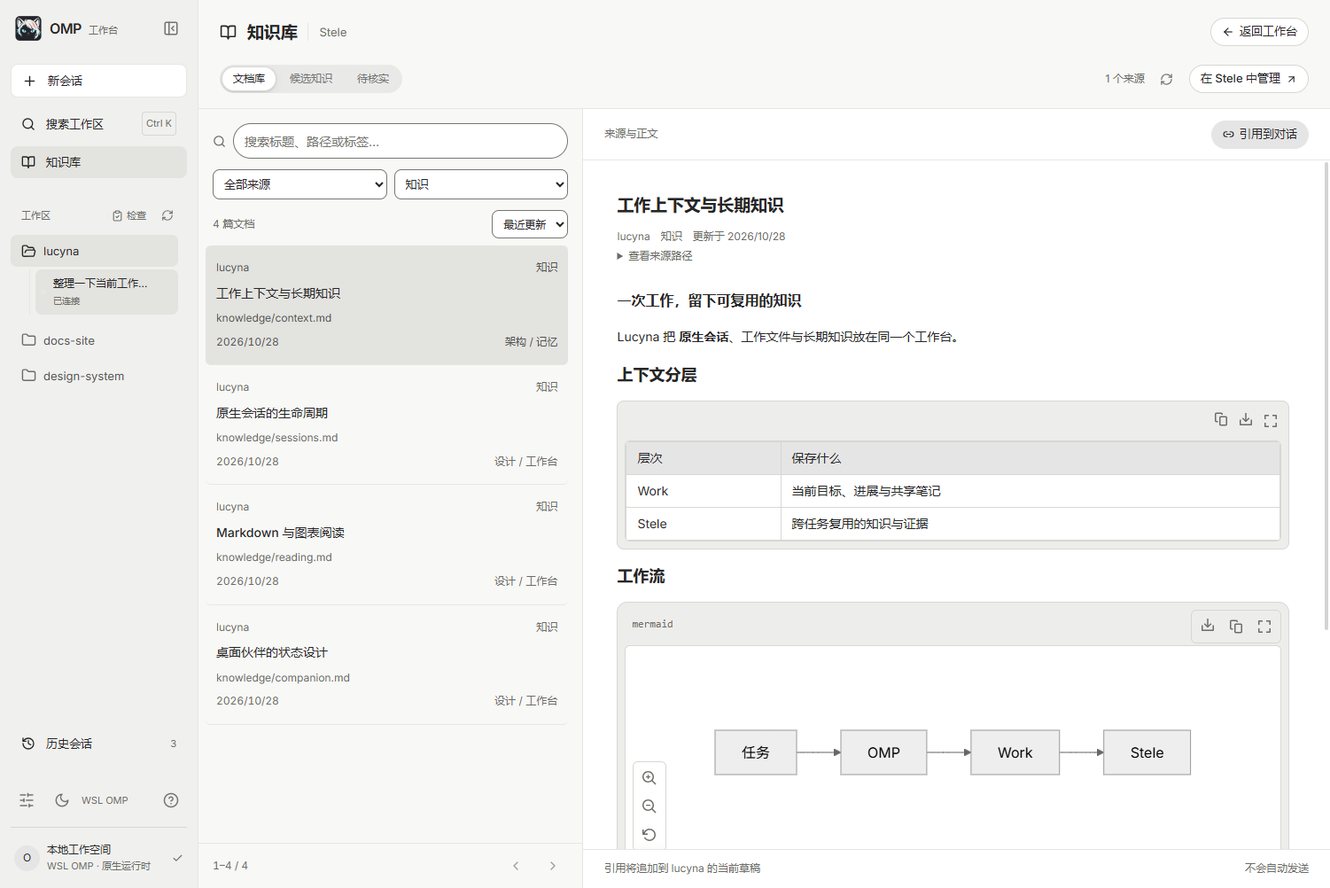
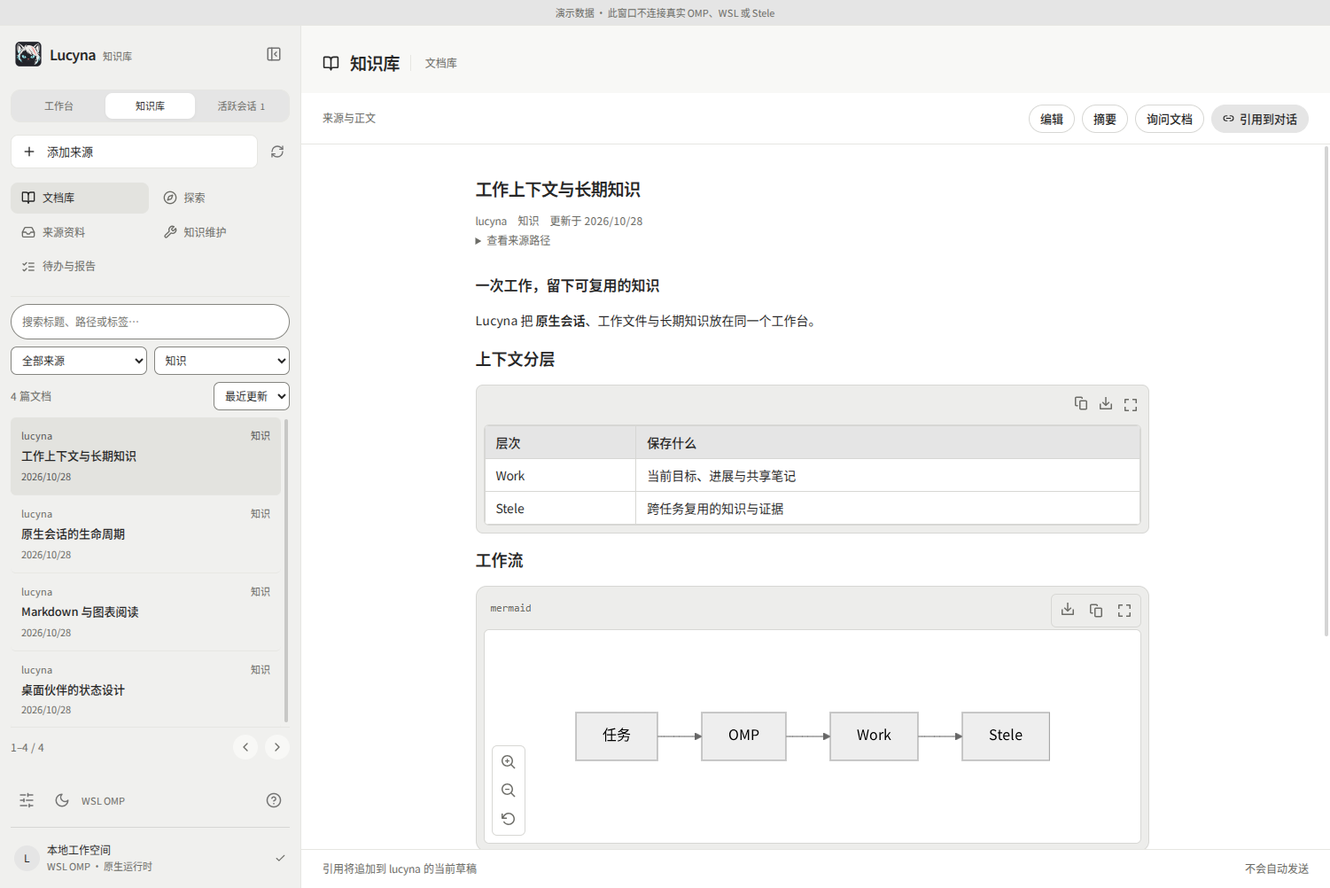
docs: refresh Lucyna features, setup and desktop gallery
Document session lifecycle, work details, knowledge navigation, configurable
feedback and native text attachment behavior. Update launch and recovery
instructions and regenerate public screenshots with synthetic data.

diff --git a/design/app-logo-v1/preview.html b/design/app-logo-v1/preview.html
@@ -1,3 +1,3 @@
-<!doctype html><html lang="zh-CN"><head><meta charset="utf-8"><meta name="viewport" content="width=device-width,initial-scale=1"><title>Cindy OMP · Logo</title><style>
+<!doctype html><html lang="zh-CN"><head><meta charset="utf-8"><meta name="viewport" content="width=device-width,initial-scale=1"><title>Lucyna · Logo</title><style>
 *{box-sizing:border-box}body{margin:0;background:#f7f7f4;color:#282c31;font:14px/1.6 "Segoe UI","Microsoft YaHei",sans-serif;padding:40px}header{display:flex;align-items:center;gap:30px;margin:0 auto 32px;max-width:1050px}header img{width:152px;height:152px;flex-shrink:0}small{font-size:10px;letter-spacing:.16em;color:#7b8388}h1{font-size:38px;letter-spacing:-1px;margin:6px 0;font-weight:600}h1 span{font-weight:350;color:#6b7479}header p{color:#6b7479;margin:0;max-width:500px}.samples{display:grid;grid-template-columns:1fr 1fr;gap:18px;max-width:1050px;margin:auto}.panel{border-radius:18px;padding:23px 24px;background:white;border:1px solid #e3e5e0;min-height:215px}.dark{background:#1c2226;color:#e9ece9;border-color:#1c2226}h2{font-size:13px;letter-spacing:.02em;font-weight:500;margin:0 0 26px}.sizes{display:flex;gap:17px;align-items:flex-end}.size{text-align:center;font:10px "Segoe UI",sans-serif;color:#878d90}.size img{display:block;margin:0 auto 12px;object-fit:contain}.caption{font-size:12px;color:#7e8689;margin:20px 0 0}.palette{display:flex;gap:25px;max-width:1050px;margin:24px auto;align-items:center;color:#697277;font-size:11px}.swatch{display:inline-block;width:12px;height:12px;border:1px solid #bbb6;border-radius:50%;margin-right:8px;vertical-align:-2px}footer{max-width:1050px;margin:24px auto 0;border-top:1px solid #e1e4df;padding-top:18px;color:#70787c;font-size:12px}.mini{display:flex;align-items:center;gap:10px;font-size:16px;font-weight:550}.mini img{width:32px;height:32px}@media(max-width:740px){body{padding:20px}.samples{grid-template-columns:1fr}.sizes{gap:12px}header img{width:100px;height:100px}h1{font-size:27px}}
-</style></head><body><header><img src="logo-master.png" alt="银发青眼黑猫 Logo"><div><small>APPLICATION IDENTITY · 01</small><h1>Cindy <span>OMP</span></h1><p>银发是搭档的记号，青色猫眼是专注的目光。<br>一个可在桌面上辨认的共同形象。</p></div></header><main class="samples"><section class="panel"><h2>LIGHT · 小尺寸实际效果</h2><div class="sizes" id="light"></div><p class="caption">16–24 px 使用简化版本，32 px 起保留完整表情。</p></section><section class="panel dark"><h2>DARK · 深色界面</h2><div class="sizes" id="dark"></div><p class="caption">圆角石墨底保持轮廓，银白与青色提供识别。</p></section><section class="panel" style="min-height:100px"><div class="mini"><img src="icon-32.png" alt="">Cindy OMP</div><p class="caption">侧栏 / 标题栏 / 网页页签 / 应用图标</p></section><section class="panel dark" style="min-height:100px"><div class="mini"><img src="icon-20.png" style="width:20px;height:20px" alt="">桌面伙伴</div><p class="caption">托盘与紧凑视图 · 图标简化，角色保持一致</p></section></main><div class="palette"><span><i class="swatch" style="background:#282c31"></i>GRAPHITE</span><span><i class="swatch" style="background:#f1f0ed"></i>SILVER</span><span><i class="swatch" style="background:#85eaf5"></i>CYAN</span><span><i class="swatch" style="background:#ff8585"></i>CORAL</span></div><footer>保留原女孩与黑猫插画，用于对话头像和欢迎页。主 Logo 用于程序身份。透明 PNG 原图 · 9 档 Windows ICO · 独立小尺寸版本</footer><script>for(const id of ['light','dark'])for(const size of [16,20,24,32,48,64]){const card=document.createElement('div');card.className='size';const img=new Image();img.src='icon-'+size+'.png';img.width=img.height=size;img.alt=size+'像素图标';card.append(img,document.createTextNode(size+' px'));document.getElementById(id).append(card);}</script></body></html>
+</style></head><body><header><img src="logo-master.png" alt="银发青眼黑猫 Logo"><div><small>APPLICATION IDENTITY · 01</small><h1>Lucyna</h1><p>银发是搭档的记号，青色猫眼是专注的目光。<br>一个可在桌面上辨认的共同形象。</p></div></header><main class="samples"><section class="panel"><h2>LIGHT · 小尺寸实际效果</h2><div class="sizes" id="light"></div><p class="caption">16–24 px 使用简化版本，32 px 起保留完整表情。</p></section><section class="panel dark"><h2>DARK · 深色界面</h2><div class="sizes" id="dark"></div><p class="caption">圆角石墨底保持轮廓，银白与青色提供识别。</p></section><section class="panel" style="min-height:100px"><div class="mini"><img src="icon-32.png" alt="">Lucyna</div><p class="caption">侧栏 / 标题栏 / 网页页签 / 应用图标</p></section><section class="panel dark" style="min-height:100px"><div class="mini"><img src="icon-20.png" style="width:20px;height:20px" alt="">桌面伙伴</div><p class="caption">托盘与紧凑视图 · 图标简化，角色保持一致</p></section></main><div class="palette"><span><i class="swatch" style="background:#282c31"></i>GRAPHITE</span><span><i class="swatch" style="background:#f1f0ed"></i>SILVER</span><span><i class="swatch" style="background:#85eaf5"></i>CYAN</span><span><i class="swatch" style="background:#ff8585"></i>CORAL</span></div><footer>保留原女孩与黑猫插画，用于对话头像和欢迎页。主 Logo 用于程序身份。透明 PNG 原图 · 9 档 Windows ICO · 独立小尺寸版本</footer><script>for(const id of ['light','dark'])for(const size of [16,20,24,32,48,64]){const card=document.createElement('div');card.className='size';const img=new Image();img.src='icon-'+size+'.png';img.width=img.height=size;img.alt=size+'像素图标';card.append(img,document.createTextNode(size+' px'));document.getElementById(id).append(card);}</script></body></html>

diff --git a/design/pixel-pet-v2/preview.html b/design/pixel-pet-v2/preview.html
@@ -1,6 +1,6 @@
-<!doctype html><html lang="zh-CN"><head><meta charset="utf-8"><meta name="viewport" content="width=device-width,initial-scale=1"><title>Cindy · 动画预览</title><style>
+<!doctype html><html lang="zh-CN"><head><meta charset="utf-8"><meta name="viewport" content="width=device-width,initial-scale=1"><title>Lucyna · 动画预览</title><style>
 :root{font:14px/1.65 "Segoe UI","Microsoft YaHei",sans-serif;color:#292d30;background:#f8f8f5;--card:#fff;--line:#e1e4df;--muted:#69716f}*{box-sizing:border-box}body{margin:0;padding:42px 5vw}body.dark{background:#171d21;color:#eef1eb;--card:#242c30;--line:#3a464b;--muted:#a4b5b7}header{max-width:1060px;margin:auto}small{font-size:11px;letter-spacing:.14em;color:var(--muted)}h1{font-size:32px;letter-spacing:-1px;margin:8px 0}p{color:var(--muted);margin:4px 0 22px}nav{display:flex;gap:10px;flex-wrap:wrap;margin-bottom:26px}button{font:inherit;color:inherit;border:1px solid var(--line);background:var(--card);border-radius:20px;padding:6px 18px;cursor:pointer}button[aria-pressed=true]{background:#14757a;color:white;border-color:#14757a}main{max-width:1060px;display:grid;grid-template-columns:repeat(4,minmax(0,1fr));gap:14px;margin:auto}.card{border:1px solid var(--line);border-radius:20px;background:var(--card);overflow:hidden;padding:14px}canvas{display:block;width:100%;height:auto;image-rendering:pixelated}h2{font-size:15px;margin:2px 0}.card p{font-size:12px;margin:0}footer{max-width:1060px;margin:26px auto 0;color:var(--muted);font-size:12px}@media(max-width:740px){main{grid-template-columns:repeat(2,minmax(0,1fr))}body{padding:22px}}
-</style></head><body><header><small>CINDY OMP / PIXEL COMPANION</small><h1>一起工作，也有自己的小动作。</h1><p>同一套角色，四种状态。画面直接播放客户端使用的逐帧素材。</p><nav><button id="duo" aria-pressed="true">女孩与黑猫</button><button id="cat" aria-pressed="false">只看黑猫</button><button id="pause" aria-pressed="false">暂停动画</button><button id="theme" aria-pressed="false">深色背景</button></nav></header><main>
+</style></head><body><header><small>LUCYNA / PIXEL COMPANION</small><h1>一起工作，也有自己的小动作。</h1><p>同一套角色，四种状态。画面直接播放客户端使用的逐帧素材。</p><nav><button id="duo" aria-pressed="true">女孩与黑猫</button><button id="cat" aria-pressed="false">只看黑猫</button><button id="pause" aria-pressed="false">暂停动画</button><button id="theme" aria-pressed="false">深色背景</button></nav></header><main>
 <section class="card"><canvas data-clip="idle" width="260" height="260"></canvas><h2>待机 · 眨眼</h2><p>安静陪伴，偶尔眨眼和摇尾巴。</p></section>
 <section class="card"><canvas data-clip="working" width="260" height="260"></canvas><h2>工作 · 操作终端</h2><p>跟随 OMP 的运行与思考状态。</p></section>
 <section class="card"><canvas data-clip="attention" width="260" height="260"></canvas><h2>待办 · 招手</h2><p>有问题等你回答，点击回到会话。</p></section>

diff --git a/docs/development.md b/docs/development.md
@@ -30,7 +30,17 @@ docs/                公共文档与演示截图
 | `npm run typecheck` | TypeScript 类型检查 |
 | `npm run build` | 构建 React renderer |
 | `npm run test:renderer` | Electron 中的真实 UI + 合成后端回归，不调用模型 |
+| `npm run test:chrome` | Windows 合并顶栏、中文菜单、主题、快捷键与窄窗口回归 |
+| `npm run test:taskbar` | Windows 任务栏图标、原生快捷方式属性和启动路径验证；加 `-- --preview` 可观察任务栏 |
+| `npm run test:drafts` | 真实 IndexedDB 读取失败、输入保留、安全重试及大文本/图片重载验证 |
+| `npm run test:attachments` | 文本附件粘贴/预览/移除、持久草稿、跨会话保存失败、默认文件引用、显式全文及窄屏验证 |
+| `npm run test:attachments:native -- --work=/绝对/work/路径` | 可选真实 Windows/WSL OMP 模型读取 `local://`，原会话恢复和 Windows 短路径缓存恢复；仅创建隔离验收会话 |
+| `npm run test:single-instance` | 重复启动唤起已有窗口，不另开 profile 数据库或丢失输入 |
+| `npm run test:experience` | 空会话、删除文件范围预览与取消、会话和 Work 备忘的真实移动/恢复、慢连接、长历史时间轴、并行监控、停止后的草稿归属与窄窗口回归 |
+| `npm run test:work:ui` | 工作详情、搜索、来源跳转、阅读位置、大 diff、窄窗口/深色与读取失败保留旧数据的离线 UI 回归 |
+| `npm run test:history:native -- --work=/绝对/work/路径` | 可选真实 OMP 验收：原地续聊、显式复制、原件/副本切换与跨运行时复制 |
 | `python -m unittest discover -s test -p work_inventory_test.py` | 临时 Git 仓库中的工作区诊断测试 |
+| `python -m unittest discover -s test -p work_details_test.py` | Linux 临时 Git 仓库中的工作详情、分离差异、资产索引、路径边界与旧版 Git 兼容测试 |
 | `npm run test:pet:animation` | 动画状态、帧尺寸与设置回归 |
 | `npm run test:pet:layout` | 桌宠布局回归 |
 | `npm run screenshots` | 用生产 renderer 与合成数据重建 `docs/screenshots/` |
@@ -40,9 +50,47 @@ docs/                公共文档与演示截图
 
 桌面测试需要可运行 Electron 的 Windows 会话。默认测试使用独立临时 profile，不接触运行中的用户客户端；截图脚本不加载生产 preload，也不调用模型或 WSL。
 
+工作详情验收使用 `test/desktop-log.cjs` 将日志先写到本次 `.runtime/` 目录的 `desktop.log`，再输出到终端。调用方关闭 stdout/stderr 管道时仅处理 `EPIPE`，测试继续保存结果并正常退出；其他异常保持可见，不使用全局异常吞噬。新增 Electron 验收入口应复用此日志工具。
+
 测试报告应区分 **逻辑单测**、**合成协议驱动的真实 UI** 和 **真实模型/WSL 实测**。后者需要明确选择独立测试 work 与 profile，确认模型费用和写入范围，不能拿截图 fixture 当作成功证据。
 
+`test:history:native` 不属于默认离线测试，需要先构建 renderer、配置 WSL 和 Windows OMP，并指定已发现的有效 work。它使用独立客户端 profile，通过真实模型创建带有“Lucyna 原地续聊验收”标记的新 journal，再实际操作生产历史界面；会消耗少量模型额度。它不打开用户已有 journal，也不写 work 文件；测试日志与副本留在忽略目录 `.runtime/history-native-*/`，原生测试 journal 留在该 work 对应的 WSL OMP 历史目录。
+
 历史本机验收日志、旧截图和迁移脚本保持在本地忽略目录，不作为项目依赖。`runtime.local.json` 变化需要重启测试进程；不要为了加载 UI 变更而中断正在运行的真实会话。
+
+历史删除先由主进程验证 journal 所属配置目录、原始 cwd 和会话 ID，再返回文件清单与确认令牌。实际删除重新检查关联与文件指纹；客户端连接和原生 WSL OMP 的会话锁均阻止删除。Linux 锁兼容使用系统 `libxxhash`，额外检查旧进程的写入描述符；Windows 使用禁止写入但允许重命名的文件句柄。无法检查时保留文件并报错。会话、同名附件目录与重写备份移到 agent 根下 `.lucyna-trash`（不在 sessions 内）；明确匹配的 `SESSION-<id>.md` 移到 Work 根下 `.lucyna-trash`，共享文档与 Stele 不动。短 ID 冲突且没有完整 ID 声明、旧副本共享 ID 或历史源不完整时，备忘保留并在确认框说明。
+
+`history-trash.json` 在移动前刷盘保存事务清单；中断后回收站仍可恢复，旧版仅隐藏记录也兼容。移动与恢复使用不覆盖目标的原生重命名；部分失败先回退，无法完整回退时保留清单和所有文件。恢复冲突不覆盖，不能用通用 `rename` 的默认覆盖语义替代。删除后的已打开标签保留阅读内容和草稿归属，恢复前不再自动连接。
+
+工作详情通过 `work:details` / `work:git` 按需调用 WSL `work-details.py`，不会在每次流式消息时扫描仓库。主进程限制已发现的 work 与只读操作；成员操作再次验证 `work.json`、实际路径与 Git common-dir。Git 禁用可选锁、外部 diff 和 textconv，显示未暂存/已暂存/登记 baseSha 到 HEAD 三种不同范围；输出有界，大 diff 在独立滚动区域展示。Ubuntu 22.04 的旧版 `worktree list --porcelain` 与新版 NUL 输出都支持。分支列表保留当前分支，并分别限制本地/远端缓存引用；不自动 fetch。
+
+工作记录保留来源与时间，不把文档中的授权当作客户端新授权。L1 读取 notes 实际文件，L2 读取根目录 SESSION 日志，scripts 只列顶层内容，临时证据仅列 L0 文档引用；未登记到 L0 的笔记与日志仍可见。日志 ID 唯一匹配现有 OMP 历史时才提供续聊。Stele 使用现有查询接口；Work 技能按钮填入草稿，仍由用户发送。MR 查询以实际 Git 远端识别项目（支持非 origin 远端），歧义数字 MR 不猜测目标；显示流水线 SHA 与本地/MR HEAD 差异。上述查询不改工作登记、源文件、Git 引用或用户会话。
+
+Windows 主窗口使用一条自绘菜单顶栏，右侧保留系统原生窗口按钮。菜单仍调用 Electron 原生编辑与窗口功能，标题栏空白区域支持拖动及双击最大化。设置环境变量 `OMP_CINDY_NATIVE_TITLEBAR=1` 后启动，可恢复系统标题栏与默认菜单；不改变用户数据。`start:legacy` 也保留原生标题栏。加载这类主进程修改需要重新启动客户端，应在运行任务结束后进行。
+
+Windows 任务栏单独设置窗口的 AppUserModelID、Lucyna 图标和重新启动信息。图标复制到应用数据目录，保证 Explorer 能直接读取，也兼容未来的 ASAR 打包；源码启动使用绝对项目路径，避免从任务栏启动时打开 Electron 默认页面。此设置不修改系统图标缓存或用户固定的任务栏项目；独立 EXE 的文件图标仍需由打包工具设置。
+
+`electron tools/create-shortcut.cjs <绝对路径.lnk> <已有数据目录>` 可创建绑定现有 profile 的 Windows 快捷方式。启动参数使用 `--user-data-dir`，任务栏重开时也保留该物理路径，避免从 Codex 与资源管理器启动时因 AppData 虚拟化出现不同配置和草稿。`LUCYNA_USERDATA` / `OMP_CINDY_USERDATA` 环境变量仍优先；相对路径不接受。工具在独立临时 profile 中运行，不连接用户会话。
+
+同一物理 profile 只允许一个客户端进程。重复点击快捷方式会显示已有窗口，包括因桌宠而隐藏的主窗口，不再并发打开 Chromium 草稿数据库。草稿读取失败时禁止写入，避免旧草稿被空值覆盖；每 5 秒及重新聚焦时重试，也可手动重试。恢复后合并期间新输入的内容，保留其他会话草稿，提示随实际恢复自动消失。故障期间的当前输入只在窗口内保留，关闭前应复制。
+
+`npm run test:experience -- --preview` 在回归通过后保留独立的演示窗口，使用临时 profile 和合成协议事件，不启动 OMP。窗口持续显示“演示数据”横幅；知识库使用明确标记的示例文档，不连接真实 Stele。截图输出到忽略目录 `.runtime/experience/`。此窗口用于检查菜单、收起侧栏、时间轴、会话监控和知识库交互，不能作为真实模型或服务成功的证据。日常使用请通过 `npm start` 打开正式客户端。
+
+完成提醒只提取 OMP `message_end` 中的可见最终文本和本轮工具统计，不增加模型请求。提醒分两行显示工作区短名称与会话标题，长标题最多两行。优先采用 OMP 会话名称，缺少名称时提取首条用户消息的短摘要；历史恢复及后台会话也直接从原生事件补齐，不依赖当前选中页面。默认隐私模式不向桌宠窗口传递回答摘录和完整工作区路径，仍保留用于识别任务的名称。时间轴仅在消息或工具结束等事件上重建；跳到很早的记录先渲染附近 80 条，再按需展开，避免把全部历史同时放进 DOM。
+
+时间轴按对话区的实际宽度切换布局：达到 960px 时保留 240px 常驻目录，正文和输入框对齐；空间不足时只显示细轨道，悬停或键盘聚焦查看摘要，方向键选择节点、Enter 跳转。阅读位置只测量已挂载的历史片段，按 80ms 合并滚动和尺寸更新，不扫描整个会话。目录每页最多 30 项，轨道密度随高度调整。搜索、跳转和点击正文都不会关闭目录。
+
+## 字体、品牌图片与安全构建
+
+`npm run build` 和 `npm start` 的预构建现在先写入 `.runtime/renderer-build-*`，成功后保留旧哈希资源、原子发布新资源，最后切换 HTML 入口。正在运行的窗口仍能加载旧的图片、字体和懒加载模块。不要在客户端运行时手动清空 `dist/renderer`；需要精简发布包时在独立目录构建。
+
+UI、文档与桌宠使用随包附带的思源黑体 SC 可变字体，来源与许可见 `src/assets/fonts/`。代码与终端保持等宽排版，中文回退到思源黑体。`npm run test:typography` 在隔离 Electron 窗口中粘贴后选择“全文发送”并发送 342,000 字符，注入品牌图片资源失败，检查矢量兜底、完整发送、中文实际字体及深浅色窄屏。`--expect-broken` 仅用于旧构建缺陷复现；不启动真实模型、不修改系统剪贴板。`test/renderer-publish.test.cjs` 验证旧窗口资源不被删除、相同文件不被重写和失败时入口不切换。
+
+## 声音与动效回归
+
+`npm run test:feedback` 使用隔离 profile 加载正式 preload、设置页面和隐藏音频窗口，验证两种风格试听/保存/取消、20 会话合并、前台静音、锁屏去重以及系统减少动态偏好。测试使用原生事件回放，不启动真实模型；系统输出在自动化期间静音，验证本地音频解码和播放，不代替主观听感验收。截图和结果位于 `.runtime/feedback-desktop-*`。策略与文件测试位于 `test/feedback.test.cjs`，桌宠像素变化另由 `npm run test:pet:animation` 验证。
+
+六个音频文件由 `python tools/build-feedback-sounds.py` 确定性生成（48 kHz、16-bit、单声道 PCM），没有外部录音或第三方音乐。`src/feedback/` 将设置持久化、通知策略与音频输出分开；音频窗口不加载会话文本或网络内容。偏好保存在客户端数据目录 `feedback-settings.json`，保存时保留 `.bak`。声音不加入 OMP agent loop，也不额外请求模型。
 
 ## 知识库验收流程
 
@@ -51,3 +99,11 @@ docs/                公共文档与演示截图
 `npm run test:knowledge:native` 对预留端口 `19015` 的隔离 Stele 执行真实 API 和桌面操作验收。先在 WSL 的仓库目录执行 `python3 tools/knowledge-fixture.py`；可用 `LUCYNA_STELE_BINARY` 指定已有 Stele 二进制。夹具生成独立 HOME/数据目录和 Markdown 文档，关闭会话索引与公开分享，本地 `19017` 协议夹具提供模型响应。它验证文档强版本冲突、证据定位、图谱、资料捕获/采纳、复核转待办、报告、设置和恢复包，不测量真实模型质量或消耗真实模型额度。结果、截图和恢复包保留在忽略目录 `.runtime/knowledge-native/`。
 
 知识接口的默认离线测试见 `test/knowledge-reader.test.cjs` 与 `test/knowledge-service.test.cjs`。新增或修改 API 操作应保持固定路由映射、范围/版本检查和明确的失败状态。
+
+### 文本附件
+
+默认将达到 100 行或超过 8,000 字符的单次粘贴保存为附件草稿，任务正文独立保留。只有发送时才连接当前会话并写文件；每份附件可改为全文发送。附件原文存于 IndexedDB，提交成功后移除，失败不丢失。正文与文本附件合计最多 4 MiB、最多 8 份；预览按 16,000 字符分段，避免大文本撑开界面。
+
+实现遵循 [OMP 18.13.3 local 协议](https://github.com/can1357/oh-my-pi/blob/v18.13.3/packages/coding-agent/src/internal-urls/local-protocol.ts) 的目录规则，使用原生 `read`，不增加工具或 agent loop。RPC 当前没有写粘贴文件命令，因此主进程从所选连接的 `get_state` 获取真实 journal，按内容哈希写入同名附件目录下的 `local/`。WSL 使用 Linux 原子写入助手，避免 Windows UNC 不支持硬链接；不会创建 Windows 会话副本。Windows 原生目录达到 180 字符时使用其 `omp-local/<session-id>` 短路径，同时在 journal 旁保留持久副本，重连时恢复缓存。
+
+停止后恢复的原生排队消息包含原 `local://` 引用，继续发送仍可读取同一会话文件。删除历史时持久附件目录沿用已有回收逻辑。提交前通过内容哈希校验和独占发布防止覆盖同名文件；异常保留草稿，不自动降级成全文发送。

diff --git a/docs/features.md b/docs/features.md
@@ -1,20 +1,25 @@
 # 功能与当前边界
 
+“设置 → 声音与动效”提供柔和合成器、像素电子两套原创音效，可试听完成、待回复和中断三种提示。默认专注模式只提示后台会话；陪伴模式也提示前台会话，静音模式保留文字状态。音量与各事件可以单独配置，保存立即生效，不需要重连 OMP。两秒内的会话提示合并发声，主动停止、单次工具失败和自动重试不发声；锁屏或静音期间的旧提示不补播。
+
+声音独立于桌宠开关，桌宠勿扰会同时暂停自动声音。界面与桌宠共用减少动效开关，并遵循系统偏好。桌宠待回复只短暂招手后静止，中断、连接与停止使用独立动作节奏。新消息只在初次出现时淡入，不逐 token 动画；侧栏拖动保持直接跟手。本版自动声音消费普通 OMP 会话事件，尚未订阅独立 WSL Work Runner 服务的后台状态；客户端彻底退出后也不发声。
+
 | 模块 | 已实现 | 依赖 / 边界 |
 | --- | --- | --- |
 | 原生会话 | 新建、流式响应、思考/工具过程、停止、原生消息队列、交互提问 | 由 OMP RPC 执行；具体模型能力由 provider 决定 |
-| 并行工作 | 多 work / session 同时运行、切换不停止、独立草稿与状态 | 普通会话需保持客户端运行；Work 后台任务由独立服务持有 |
-| 历史 | 按 work 列表、搜索、来源筛选、导入副本、续聊 | 同一 journal 只允许一个活跃写入者；不迁移所有第三方 session 格式 |
+| 并行工作 | 多 work / session 同时运行、切换不停止、独立草稿与状态；活跃会话页统一筛选、打开、停止、结束连接；“已完成未读”单独计数并按完成时间排序 | 客户端需保持运行；查看列表不清除未读，打开前台会话后标为已读；停止后排队文本和图片回到所属会话的草稿 |
+| 历史 | 按 work 列表、搜索、来源筛选；WSL 原生历史原地续聊、显式创建副本、跨环境复制；会话、专属附件和对应 Work 备忘一起回收/恢复 | 删除前显示文件清单；连接中的会话禁止删除；不改共享摘要、笔记或 Stele；有歧义的备忘保留并说明；恢复不覆盖已有文件。旧版仅隐藏的记录仍可恢复 |
+| 时间轴 | 宽窗口常驻旁侧目录，窄窗口显示细轨道；阅读位置高亮、搜索与分页；按提问、回答、工具失败与待回复跳转 | 不遮挡正文，无需打开或关闭；长历史仅渲染目标附近记录，不额外调用模型 |
 | 技能 | 读取原生命令目录、斜杠补全、技能调用 | 不内置或复制用户整套技能；需要原生 OMP 能发现技能 |
-| 输入 | 大段文本、图片粘贴/附件、停止后还原排队草稿 | 图片支持与配额取决于模型；不自动扩展上下文上限 |
-| 工作区 | 只读诊断、摘要、SESSION 阅读、分支偏差提示 | 不自动切分支或修改 Work 登记 |
+| 输入 | 粘贴达到 100 行或超过 8,000 字符时转为文本附件；预览、移除、逐项选择全文发送；图片粘贴/附件、停止后还原排队草稿 | 默认只传原生 `local://` 引用，由 OMP 按需读取；正文和文本附件合计最多 4 MiB / 8 份。保存失败保留草稿；图片支持与配额取决于模型 |
+| 工作区 | 进展/未决事项/最新记录；按仓库归组 Worktree，分支、基线、暂存/未暂存/未跟踪/冲突、diff、提交、同仓工作树、MR/流水线；实际笔记/日志/脚本/证据索引 | Git 只读、不 fetch 或改 Work 登记；远端引用为本机缓存，MR 按需通过 WSL glab 查询；勾选数不代表验收完成 |
 | Work 后台任务 | 原生 OMP goal、界面退出后继续、暂停/恢复、持久答复；文件读写/搜索、skill 与 L3 读取、隔离命令、Git 只读查看；阶段与事件时间线 | WSL Python 3.10、systemd、bwrap；命令无网络与用户主目录，仅使用已挂载运行时；公共 L3/skill 不参与修改，Git 写入与设备操作仍走普通会话 |
 | Work 进化实验 | 固定版本 AntOmniEvo Optimizer、OMP 候选生成、冻结训练/留出检查、分数曲线、候选 diff、采纳与校验回退 | 独立 Python 环境；1–5 轮、最多 10 个现有文件；检查须输出机器分数；当前评测适配器运行检查脚本，不自动构造任意任务训练集，不宣称长期泛化收益 |
 | 终端 | 内嵌 xterm、WSL PTY、调整尺寸、按 session 保留 | Windows 桌面 + WSL；不是远端 SSH 管理器 |
 | 阅读 | 文件列表、Markdown/GFM、语法高亮、公式、Mermaid、图片、网页 | 受工作根路径约束；网页能力受网站策略影响 |
 | 知识 | 文档阅读/编辑/摘要、证据检索与版本定位、Cytoscape 社区图谱、会话记忆、时间线、资料导入、候选审核、知识复核、待办、报告、问答、备份恢复 | 需要已有 Stele 服务；知识库可见时每分钟读取更新；编辑与审核校验版本；恢复在 Stele 下次启动时应用 |
-| 外观 | 深浅色、可调左右栏、窄窗布局、事件页、阅读位置保留 | 浏览器 `npm run dev` 仅 UI 预览，桌面能力需 Electron |
-| 桌面伙伴 | 银发女孩与黑猫/黑猫两种外观，32 帧像素素材，状态动画、置顶、托盘、通知、静默与隐私设置 | 透明窗口、DPI、多显示器行为仍需持续实机验证 |
+| 外观 | 合并菜单顶栏、原生窗口按钮；知识库使用独立导航与文档左栏，工作台和活跃会话共用工作区左栏；两套宽度、筛选和阅读位置分别保留；深浅色与窄窗布局 | 浏览器 `npm run dev` 仅 UI 预览，桌面能力需 Electron |
+| 桌面伙伴 | 两种外观、32 帧像素动画、置顶、托盘；完成提醒包含最终回答摘录、耗时与工具统计 | 提醒显示工作区与会话名称，隐私模式隐藏结果摘录和完整路径；原生拖动、DPI、多显示器行为仍需持续实机验证 |
 | 配置 | Windows / WSL OMP 切换、模型、环境检查、桌宠偏好 | 发行版、用户和 workRoot 当前在本地 JSON 配置 |
 
-这是早期桌面客户端。当前重点是 Windows + WSL；没有声称支持 macOS/Linux 桌面发行版、多人协作服务、自动升级、故障后自动重放任务或所有 OMP 扩展 UI。演示截图使用合成数据，不代表已访问某个真实项目或调用了真实模型。
+这是早期桌面客户端。当前重点是 Windows + WSL；没有声称支持 macOS/Linux 桌面发行版、多人协作服务、自动升级、故障后自动重放任务或所有 OMP 扩展 UI。普通交互会话仍由客户端持有；仅显式创建的 Work 后台任务由独立服务持有。演示截图使用合成数据，不代表已访问某个真实项目或调用了真实模型。

diff --git a/docs/architecture.md b/docs/architecture.md
@@ -16,12 +16,14 @@ flowchart LR
 
 - `src/session-manager.cjs` 管理每个 session 的原生进程所有权；界面切换不等于终止任务。
 - `src/history.cjs` 处理历史来源、cwd 归属和导入副本，避免跨 work 错续或双写。
+- `src/wsl-session-history.cjs` 校验配置的原生目录、真实文件路径及 journal 的 cwd，允许已有 WSL 历史原地续聊。Windows 仅登记 `wsl-session-links` 路径索引；显式复制或跨运行时迁移才调用 OMP 原生 pack/unpack。前端按实际 journal 路径识别连接，副本的来源路径不作为写入者身份。
+- 新导入副本首次启动使用原生 `--fork` 获取独立 ID，防止与原件争用 OMP 按 ID 管理的写入锁；成功后原子更新导入元数据，后续使用 `--resume`。旧副本不自动重写。原地续聊的启动状态必须返回所选文件，否则显示错误并结束该次连接，保留草稿。
 - `src/backend.cjs` 与 `src/work-inventory.py` 提供只读工作区诊断；警告与不可恢复的路径错误分别显示。
 - `src/renderer/` 是 React 界面；`vendor/cindy` 是保留许可证的 Cindy UI 组件。Markdown 采用 Streamdown 及 code、math、mermaid、cjk 插件。
 - `src/pet/` 管理独立透明窗口、状态聚合和动画，不运行另一套 agent。
+- `tools/work-stele/server.py` 是受限的 stdio MCP 桥接；可用工具来自 allowlist，凭证留在 WSL。
 - `src/knowledge-service.cjs` 将固定 IPC 操作映射到本地 Stele API。渲染器不能指定任意 URL 或 HTTP 方法；上传采用限额 multipart，编辑携带强 ETag，候选/复核携带输入版本。问答通过受限 IPC 转发真实 SSE，提前结束不作为成功。
 - `KnowledgeWorkspace` 复用原有文档阅读器，提供探索、来源、维护和工具视图。Cytoscape 按需加载并使用 Stele 返回的社区和关系数据，默认折叠社区，会话节点按需显示；知识仍由 Stele 管理。
-- `tools/work-stele/server.py` 是受限的 stdio MCP 桥接；可用工具来自 allowlist，凭证留在 WSL。
 - `src/runtime-config.cjs` 与 `tools/runtime_config.py` 读取本地机器配置。公共代码不依赖开发者用户名或 provider 认证。
 
-客户端现有存储命名继续使用 `omp-cindy`，项目展示名为 Lucyna。这样更名不会强制搬迁既有设置与会话副本。
+产品名称为 Lucyna，包名为 `lucyna`。`src/app-identity.cjs` 显式固定兼容数据目录 `omp-cindy`，使 Electron 的 `userData` 与 `sessionData` 保持一致；设置、会话副本、IndexedDB 草稿与窗口状态继续使用原位置。独立测试可设置 `LUCYNA_USERDATA`，旧的 `OMP_CINDY_USERDATA` 也继续兼容。

diff --git a/README.md b/README.md
@@ -12,7 +12,7 @@ Lucyna 是一个围绕 [oh-my-pi / OMP](https://github.com/can1357/oh-my-pi) 的
 
 界面借鉴 [Cindy](https://github.com/makecindy/cindy)，复用部分带许可证的 UI 组件；Work 承载当前工作上下文，Stele 承载 L3 长期知识。银发女孩与黑猫是 Lucyna 的视觉伙伴，也可以作为桌面像素宠物陪伴工作。
 
-> 当前为 **早期源码版本**，主要面向 Windows 11 + WSL2。展示名为 Lucyna，内部包名保留 `omp-cindy` 以兼容现有数据目录。截图由真实生产界面渲染，所有工作、会话和知识内容均为演示数据，不代表真实模型执行记录。
+> 当前为 **早期源码版本**，主要面向 Windows 11 + WSL2。产品名称统一为 **Lucyna**，包名为 `lucyna`；现有数据仍使用兼容目录 `omp-cindy`，无需搬迁。截图由真实生产界面渲染，所有工作、会话和知识内容均为演示数据，不代表真实模型执行记录。
 
 ## 可以做什么
 
